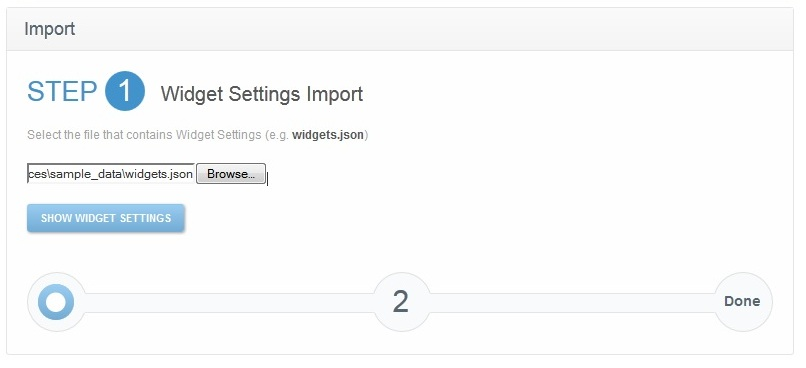
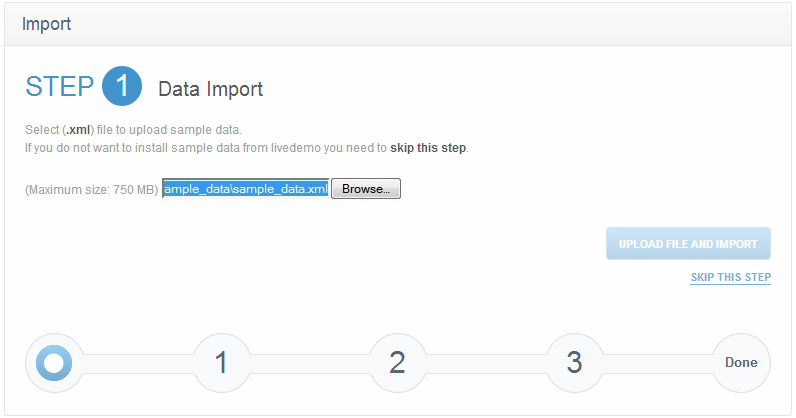
Cherry Framework v2.3 changes(sample data install)

diff --git a/index_en.html b/index_en.html
@@ -618,35 +618,35 @@
               <p>To make your WordPress website look like our live demo, please follow the instructions below. We also  suggest you always have a backup .sql file <a href="http://www.templatemonster.com/help/phpmyadmin-how-to-backup-a-database.html">exported</a> from your database.  </p>
             <ol>
             <li>Go to the menu <strong>Cherry Options &gt; Import.</strong></li>
-                <li>Follow the steps there. On <strong>Step One</strong> you will be prompted to upload <strong>widgets.json</strong> (This file located in  the <strong>/theme/sample_data/</strong> folder of the template package contains widgets settings. Before  importing the file, make sure there are no widgets already added to your site:  go to the menu <strong>Appearance &gt; Widgets, </strong>open  the widget areas on the right and if there are any widgets, drag and drop  them to the left side under Inactive Widgets so all these widget areas are  empty). Once you have selected the file, click <strong>Show widget settings</strong> button (If you do not want to install widgets  settings from live demo you need to skip this step).
+                <li>Follow the steps there. On <strong>Step One</strong> you will be prompted to upload the file with <strong>sample_data.xml</strong> extension, which contains all template sample data (posts, pages, categories etc.). Once you have selected the file, click <strong>Upload File and Import</strong> button (If you do not want to install sample data from live demo you need to <strong>skip</strong> this step.)
                   <p>&nbsp;</p>
             <figure class="img-paraloid"><img src="img/wordpress/import_1st_step.jpg" alt=""></figure>
-            <p class="muted text-center"></p>
-                  <p>This will  allow you to choose what widgets you would like to install from the list. All widgets  should be checked if you would like to install them all.Сlick <strong>Import Settings </strong>to proceed to the next  step. </p>
-
-            <figure class="img-paraloid"><img src="img/wordpress/import_1st_step_2.jpg" alt=""></figure>
-            <p class="muted text-center"></p>
                 </li>
                 <li>
-                  <p>On the second step you will be prompted to upload the file with <strong>sample_data.xml</strong> extension, which contains all template sample data (posts, pages, categories etc.). Once you have selected the file, click <strong>Upload File and Import</strong> button (If you do not want to install sample data from live demo you need to <strong>skip</strong> this step.)</p>
-           
-            <figure class="img-paraloid"><img src="img/wordpress/import_2nd_step.jpg" alt=""></figure>
-            <p class="muted text-center"></p>
-                  <p>After this you will need to select the author for the posts and pages you are importing. Click <strong>Import Data</strong> button to run the process.</p>
-        
-            <figure class="img-paraloid"><img src="img/wordpress/import_2nd_step_2.jpg" alt=""></figure>
-            <p class="muted text-center"></p>
+                  <p>After this you will need to select the author for the posts and pages you are importing. Click <strong>Next</strong> button to run the process.</p>
                   <p>Sample data import process usually takes approximately 2 minutes so be patient and wait a bit. Please, <strong>don't terminate this process</strong>.</p>
-      
-            <figure class="img-paraloid"><img src="img/wordpress/import_2nd_step_3.jpg" alt=""></figure>
-            <p class="muted text-center"></p>
-                  <p>At the end you  should get a <strong>Finish</strong> button to click  on. It will take you to the <strong>Permalink  Settings </strong>page<strong>.</strong></p>
+            <figure class="img-paraloid"><img src="img/wordpress/import_2nd_step.jpg" alt=""></figure>
+
+                </li>
+                <li>
+                  <p>On the third step you will be prompted to upload <strong>widgets.json</strong> (This file located in  the <strong>/theme/sample_data/</strong> folder of the template package contains widgets settings. Before  importing the file, make sure there are no widgets already added to your site:  go to the menu <strong>Appearance &gt; Widgets, </strong>open  the widget areas on the right and if there are any widgets, drag and drop  them to the left side under Inactive Widgets so all these widget areas are  empty). Once you have selected the file, click <strong>Next</strong> button (If you do not want to install widgets  settings from live demo you need to skip this step).</p>
+           
+            <figure class="img-paraloid"><img src="img/wordpress/import_3d_step.jpg" alt=""></figure>
+                </li>
+                <li>
+                  <p>This will  allow you to choose what widgets you would like to install from the list. All widgets  should be checked if you would like to install them all.Сlick <strong>Next </strong>to proceed to the next  step.</p>
+            <figure class="img-paraloid"><img src="img/wordpress/import_4nd_step.jpg" alt=""></figure>
+                  
                 </li>
                 <li>
                   <p>Click the<strong> Save Changes</strong> button, to activate SEO-optimized permalinks structure.</p>
    
             <figure class="img-paraloid"><img src="img/wordpress/import_permalinks.jpg" alt=""></figure>
-            <p class="muted text-center"></p>
+                </li>
+                <li>
+                  <p><strong>Congratulations!</strong> You have successfully installed your Cherry WordPress Theme. You can look theme now</p>
+   
+            <figure class="img-paraloid"><img src="img/wordpress/import_5nd_step.jpg" alt=""></figure>
                 </li>
               </ol>
               <h4 id="manual_install">Manual installation</h4>
